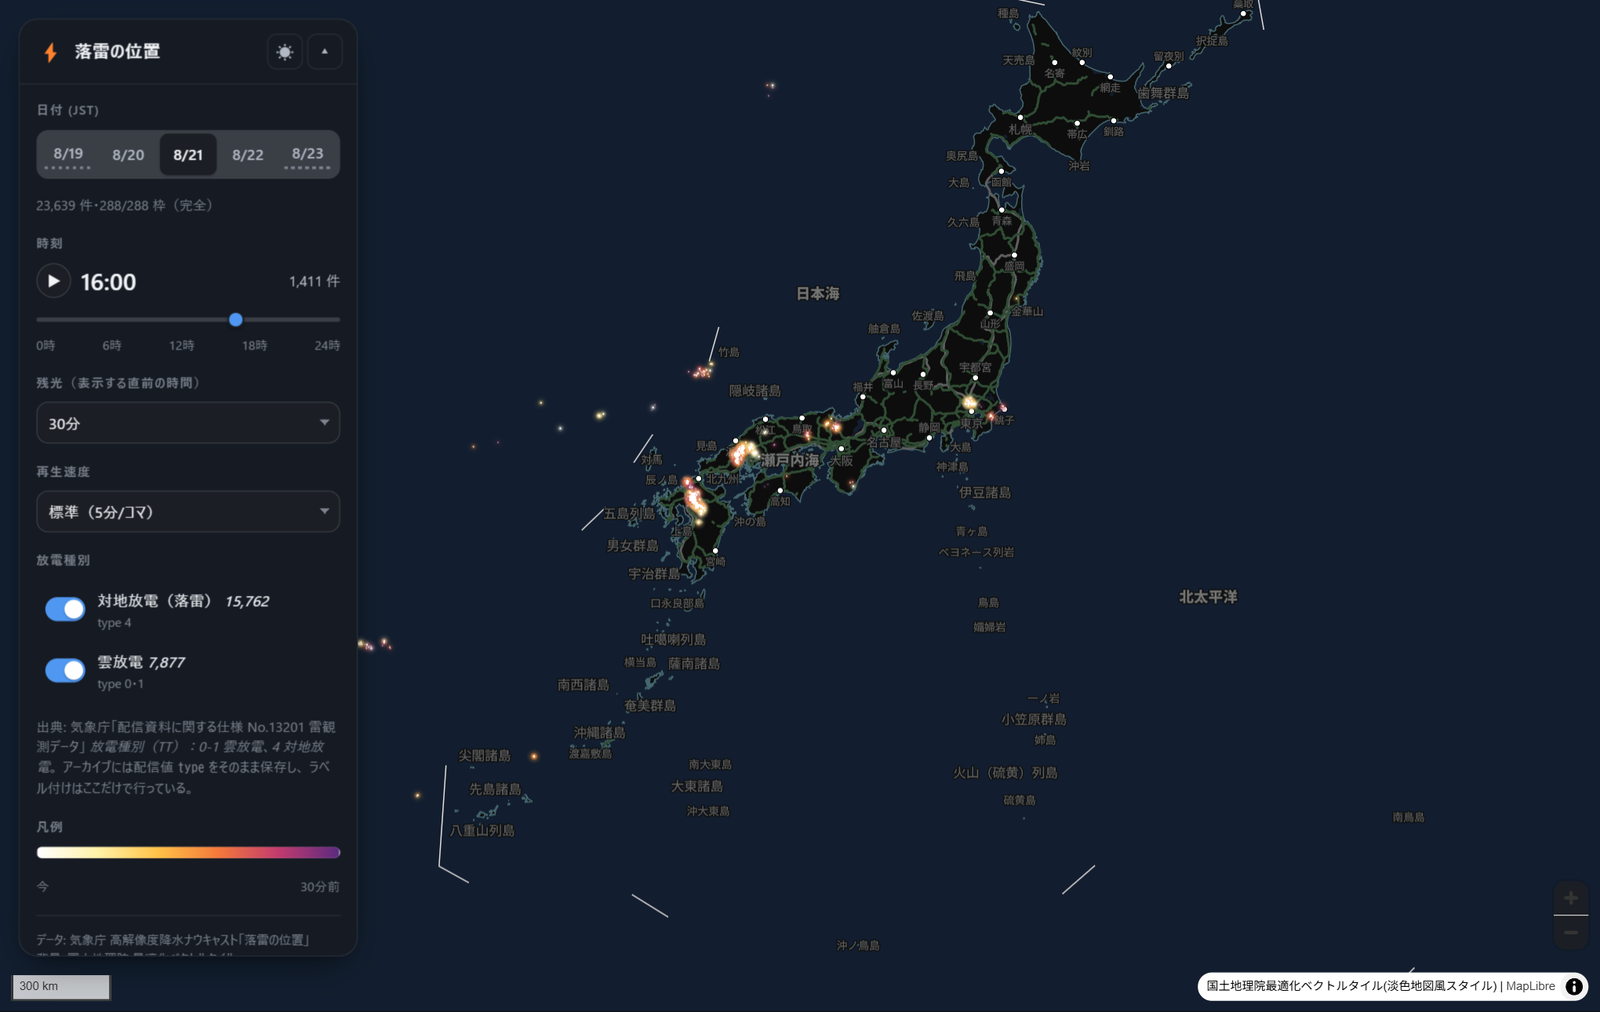
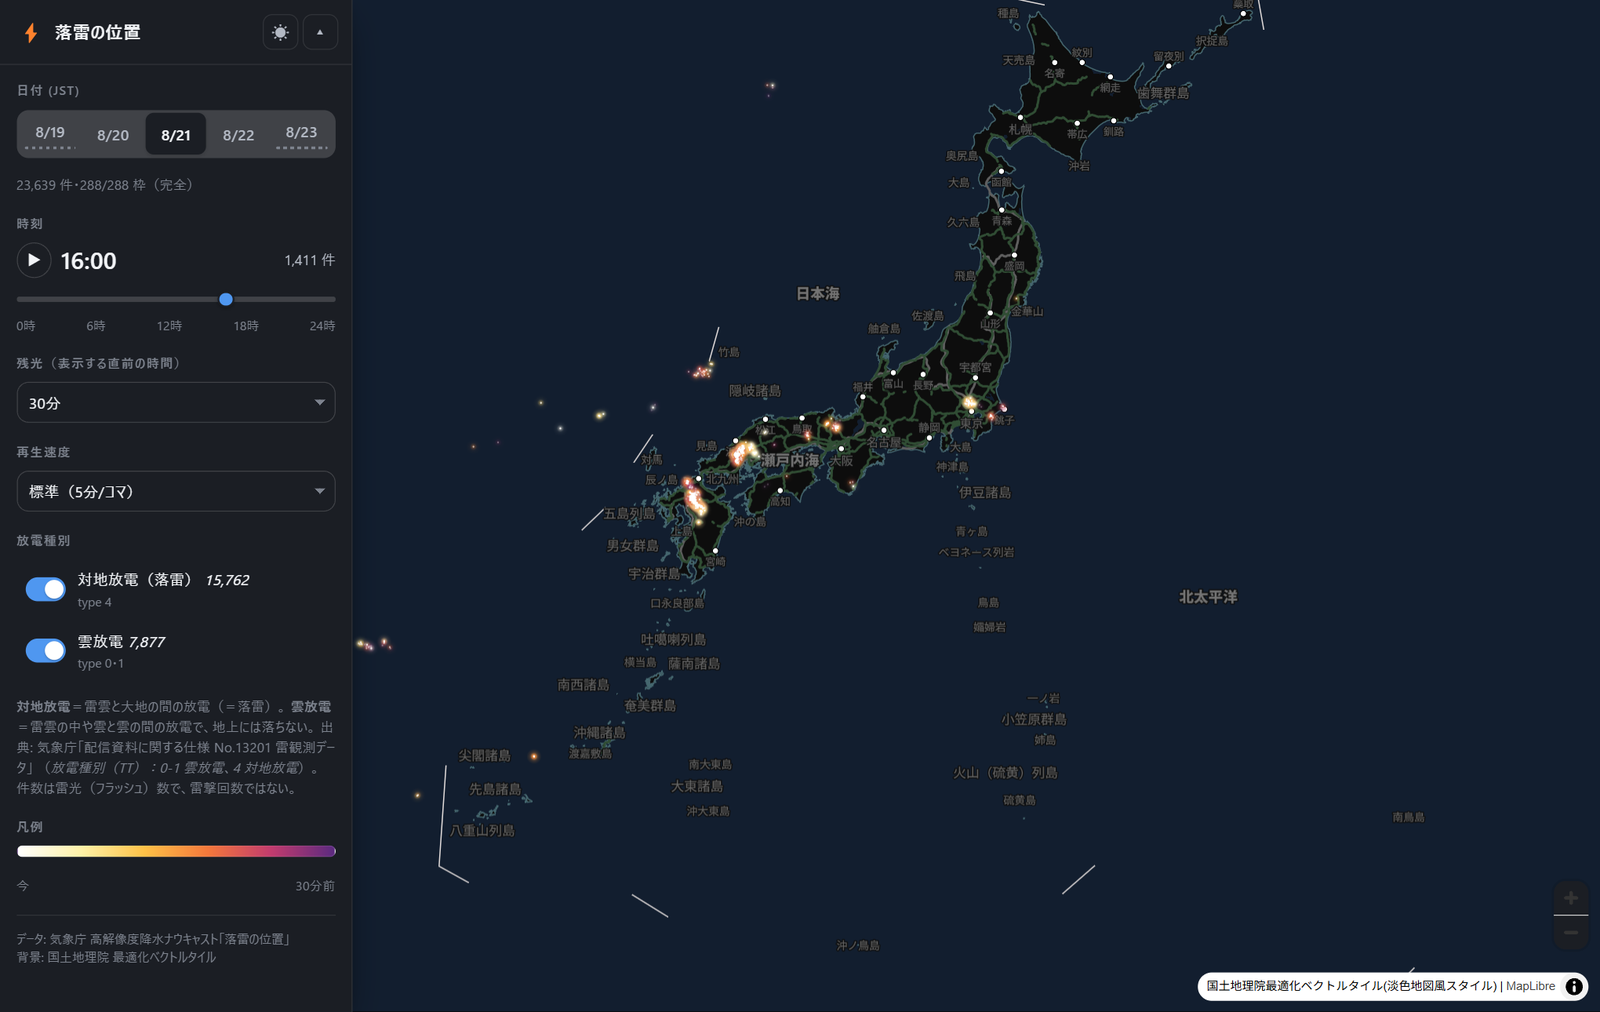
パネルを左端貼り付けの全高サイドバーにし、放電種別の定義を明記する
パネルの余白について: 参考に指定された jartic-traffic-signal-cycle-converter は
全高フラッシュのサイドバーだが、実装時にもう一方の姉妹リポジトリ
railway-frequency-converter（浮きカード: top/left 16px + 角丸 + backdrop-filter）
から CSS を流用したため、地図の左上に余白が入っていた。参考実装に合わせる。

- top:0/left:0/bottom:0、角丸なし、border-right。height:100dvh に頼らない
- backdrop-filter は使わない（内部スクロールのあるパネルで実GPU合成が破綻する）
- 畳むときは .panel.collapsed で全高固定を解除する。hidden だけだと
  中身のない全高の板が残っていた
- 狭い画面は画面端まで使うボトムシート（max-height:62dvh）。モバイルは
  top:auto なので .panel.collapsed { bottom:0 } の打ち消しが必要
- 実測で確認: 1360x860 で top0/left0/300x860・畳むと55px・狭画面480x760で
  480x471(62dvh)・内部スクロール有効

放電種別の定義を docs/DATA.md に一次資料から引用して記載した。
雲放電＝雷雲の中や雲と雲の間の放電、対地放電＝雷雲と大地の間の放電(＝落雷)。
あわせて次の2点も明記した。

- 1レコード = 1雷光(フラッシュ)。対地放電の連続した雷撃(ストローク)は
  1レコードにまとまるので、type 4 の件数は落雷フラッシュ数であり雷撃回数ではない
- 標定の限界（誤標定・検知局から遠いほど精度低下・1分5万件超の切り捨て）

Claude-Session: https://claude.ai/code/session_01YSfdbc5w92Ju6zcLSSZ8YD

diff --git a/viewer/src/style.css b/viewer/src/style.css
@@ -54,21 +54,36 @@ body {
 }
 
 /* ---- パネル ---- */
+/* 画面左端に貼り付く全高サイドバー。姉妹リポジトリ
+   jartic-traffic-signal-cycle-converter の viewer/src/style.css に合わせている。
+   浮きカード（top/left に余白＋角丸）にすると、地図の左上——ちょうど見たい
+   ところ——が余白で欠ける。 */
 .panel {
   position: absolute;
-  top: 16px;
-  left: 16px;
+  top: 0;
+  left: 0;
   z-index: 2;
-  width: 288px;
-  max-width: calc(100vw - 32px);
-  background: var(--surface);
-  backdrop-filter: blur(16px) saturate(1.4);
-  -webkit-backdrop-filter: blur(16px) saturate(1.4);
-  border: 1px solid var(--line);
-  border-radius: var(--radius);
+  display: flex;
+  flex-direction: column;
+  width: 300px;
+  max-width: 88vw;
+  /* 常に全高で固定。top:0 + bottom:0 で確実に画面の縦いっぱいにする
+     （height:100dvh の dvh 単位に頼らない）。height:auto にすると内容が
+     画面より低いときパネルが縮み、上半分だけになったり切替で下端が動く。 */
+  bottom: 0;
+  /* backdrop-filter（すりガラス）は使わない。実GPUでの合成不具合により、
+     内部スクロールを持つパネルで描画が破綻することがある。 */
+  background: var(--surface-solid);
+  border-right: 1px solid var(--line);
+  border-radius: 0;
   box-shadow: var(--shadow);
   overflow: hidden;
-  transition: box-shadow 0.2s ease;
+}
+
+.panel.collapsed {
+  /* 畳んだらヘッダの高さだけに（全高固定を解除） */
+  bottom: auto;
+  height: auto;
 }
 
 .panel-head {
@@ -78,6 +93,7 @@ body {
   gap: 8px;
   padding: 12px 12px 12px 14px;
   border-bottom: 1px solid var(--line);
+  flex: none;
 }
 
 .brand {
@@ -129,8 +145,12 @@ body {
   padding: 14px;
   display: grid;
   gap: 16px;
-  max-height: calc(100vh - 120px);
+  /* 親が全高固定なので、余った高さをここが受けて内部スクロールする。
+     max-height を自前で計算しない（ヘッダ高の変化でずれる） */
+  flex: 1;
+  min-height: 0;
   overflow-y: auto;
+  align-content: start;
 }
 
 .panel.collapsed .panel-body {
@@ -409,18 +429,48 @@ body {
 
 /* ---- レスポンシブ（モバイルはボトムシート） ---- */
 @media (max-width: 640px) {
+  /* 狭い画面では画面端まで使うボトムシートにする。浮かせて角丸を付けると
+     地図の見える面積が減るだけなので、端に貼り付ける（参考: 姉妹リポジトリ
+     jartic-traffic-signal-cycle-converter）。 */
   .panel {
     top: auto;
-    bottom: 12px;
-    left: 12px;
-    right: 12px;
+    left: 0;
+    right: 0;
+    bottom: 0;
     width: auto;
     max-width: none;
-    border-radius: 18px;
+    height: auto;
+    max-height: 62dvh;
+    border: none;
+    border-top: 1px solid var(--line);
+    border-radius: 0;
+  }
+
+  /* デスクトップ用の .panel.collapsed { bottom: auto } を打ち消す。
+     モバイルは top:auto なので bottom まで auto になると
+     パネルが画面最上部へ飛ぶ。 */
+  .panel.collapsed {
+    bottom: 0;
+    max-height: none;
+  }
+
+  .panel-head {
+    padding: 14px 12px;
   }
 
   .panel-body {
-    max-height: 46vh;
+    padding: 12px;
+  }
+
+  /* タッチ操作しやすいよう当たり判定を拡大 */
+  .toggle {
+    padding: 9px 8px;
+  }
+
+  /* 畳んだパネルのヘッダ分だけ地図コントロールを持ち上げる */
+  .maplibregl-ctrl-bottom-right,
+  .maplibregl-ctrl-bottom-left {
+    margin-bottom: 64px;
   }
 }
 

diff --git a/viewer/index.html b/viewer/index.html
@@ -70,10 +70,11 @@
         <span class="field-label">放電種別</span>
         <div id="types" class="toggles"></div>
         <p class="note">
+          <strong>対地放電</strong>＝雷雲と大地の間の放電（＝落雷）。
+          <strong>雲放電</strong>＝雷雲の中や雲と雲の間の放電で、地上には落ちない。
           出典: 気象庁「配信資料に関する仕様 No.13201 雷観測データ」
-          <em>放電種別（TT）：0-1 雲放電、4 対地放電</em>。
-          アーカイブには配信値 <code>type</code> をそのまま保存し、
-          ラベル付けはここだけで行っている。
+          （<em>放電種別（TT）：0-1 雲放電、4 対地放電</em>）。<br />
+          件数は雷光（フラッシュ）数で、雷撃回数ではない。
         </p>
       </div>
 

diff --git a/viewer/src/main.ts b/viewer/src/main.ts
@@ -333,6 +333,9 @@ async function boot(): Promise<void> {
   $('collapse-btn').addEventListener('click', () => {
     const body = $('panel-body')
     body.hidden = !body.hidden
+    // パネルは全高固定なので、畳むときは .collapsed を付けて高さの固定を解除する。
+    // hidden だけだと中身が消えた全高の板が残る。
+    $('panel').classList.toggle('collapsed', body.hidden)
     $('collapse-btn').textContent = body.hidden ? '▾' : '▴'
   })
   $('collapse-btn').textContent = '▴'

diff --git a/docs/DESIGN.md b/docs/DESIGN.md
@@ -107,6 +107,31 @@ raw はいつ消してもよいキャッシュなので、raw を基準にする
 既に PMTiles ならそのまま使う。バージョンによって挙動が違うので、
 拡張子でもバージョン番号でもなく中身で判断する。
 
+## パネルは画面左端に貼り付ける
+
+**浮きカードにしない。** `top:16px / left:16px / border-radius:16px` の
+フローティングパネルは、地図の左上——ちょうど見たいところ——を余白で削るだけで
+得がない。左端に貼り付いた全高サイドバーにする。
+
+- `top:0; left:0; bottom:0; border-radius:0; border-right`。**`height:100dvh` に
+  頼らず `top:0` + `bottom:0`** で縦いっぱいにする（`height:auto` だと内容が
+  画面より低いときパネルが縮み、切替で下端が動く）
+- **`backdrop-filter`（すりガラス）は使わない。** 実GPUでの合成不具合により、
+  内部スクロールを持つパネルで描画が破綻することがある
+- 畳むときは `.panel.collapsed` を付けて `bottom:auto; height:auto` に戻す。
+  **`hidden` だけだと中身が消えた全高の板が残る**（実際に踏んだ）
+- 狭い画面（`max-width:640px`）は画面端まで使うボトムシート
+  （`left:0; right:0; bottom:0; max-height:62dvh; border-radius:0`）。
+  ここで `.panel.collapsed { bottom: 0 }` を **明示的に打ち消す**必要がある。
+  モバイルは `top:auto` なので、デスクトップ用の `bottom:auto` が効くと
+  パネルが画面最上部へ飛ぶ
+
+構成は姉妹リポジトリ
+[`jartic-traffic-signal-cycle-converter`](https://github.com/shiwaku/jartic-traffic-signal-cycle-converter)
+の `viewer/src/style.css` に合わせている。
+（`railway-frequency-converter` 側は浮きカードなので、そちらから CSS を
+流用すると余白が付いてくる。**最初それで作ってしまった。**）
+
 ## 発光表現と再生の作り
 
 姉妹リポジトリ
